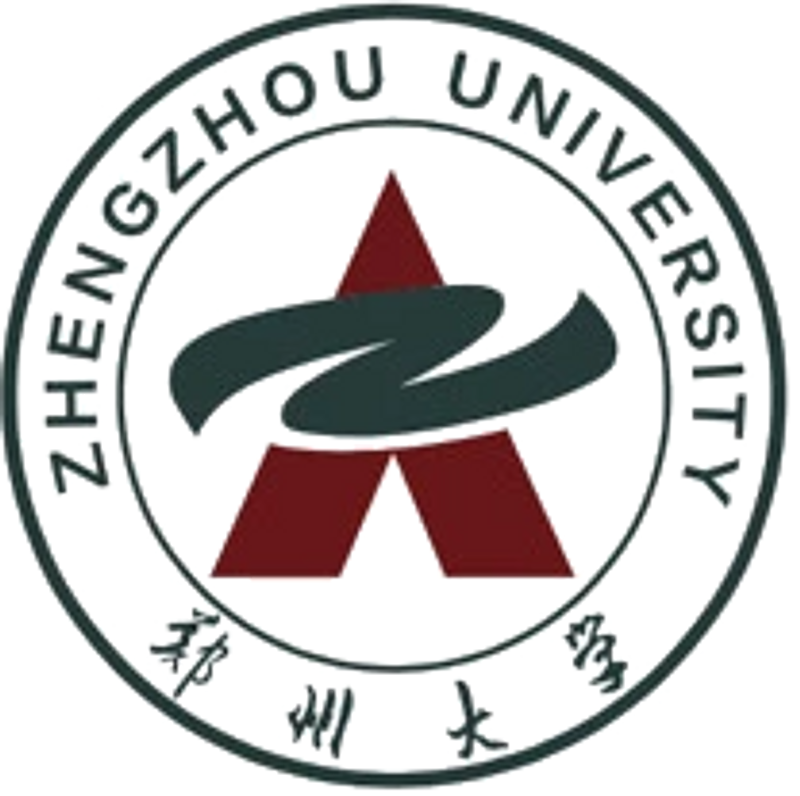
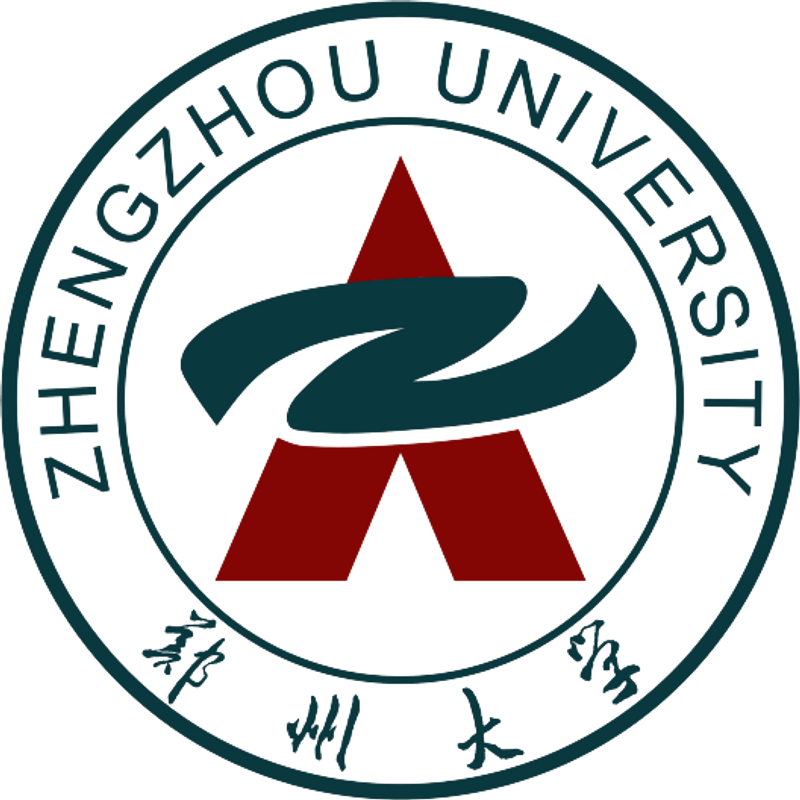
Site updated: 2022-02-27 16:54:49

diff --git a/index.html b/index.html
@@ -91,7 +91,7 @@
                 <!-- En caso de una text -->
                 
                     <a class="logo-wrap" href="#body" style="text-decoration: none;" >
-                        <img class="logo-img logo-img-main" src="img/logo-bg.jpg" alt="Asentus Logo">
+                        <img class="logo-img logo-img-main" src="img/logo-bg.png" alt="Asentus Logo">
                         <img class="logo-img logo-img-active" src="img/logo.png" alt="Asentus Logo">
                     </a>
                 
@@ -225,7 +225,7 @@
           </div>
           <div class="col-sm-8 col-sm-offset-1">
               <div class="margin-b-60">
-                I'm Shen Tongda, . <br>Duis aute irure dolor in reprehenderit in voluptate velit esse cillum dolore eu fugiat nulla pariatur. <br>Excepteur sint occaecat cupidatat non proident, sunt in culpa qui officia deserunt mollit anim id est laborum.
+                I'm Shen Tongda. <br>Duis aute irure dolor in reprehenderit in voluptate velit esse cillum dolore eu fugiat nulla pariatur. <br>Excepteur sint occaecat cupidatat non proident, sunt in culpa qui officia deserunt mollit anim id est laborum.
               </div>
           </div>
       </div>
@@ -306,7 +306,7 @@
 
 
 <!-- academic -->
-<div id="work">
+<div id="academic">
   <div class="container content-lg">
       <div class="row">
           <div class="col-sm-3 sm-margin-b-30">
@@ -326,19 +326,19 @@
 
   
     <div class="masonry-grid-item col-xs-12 col-sm-6 col-md-8 margin-b-4">
-      <!-- Work -->
+      <!-- academic -->
       <div class="work work-popup-trigger">
           <div class="work-overlay">
-              <img class="full-width img-responsive" src="img/2.jpg" alt="academic Image">
+              <img class="full-width img-responsive" src="img/1.jpg" alt="academic Image">
               <div class="work-overlay-label">
-                <p> Library</p>
+                <p> 16-52</p>
               </div>
           </div>
           <div class="work-popup-overlay">
               <div class="work-popup-content">
                   <a href="javascript:void(0);" class="work-popup-close">Hide</a>
                   <div class="margin-b-30">
-                      <h3 class="margin-b-5">Library</h3>
+                      <h3 class="margin-b-5">16-52</h3>
                       <span>Clean &amp; Minimalistic Design</span>
                   </div>
                   <div class="row">
@@ -394,7 +394,7 @@
   </div>
   
     <div class="masonry-grid-item col-xs-12 col-sm-6 col-md-4 margin-b-4">
-      <!-- Work -->
+      <!-- academic -->
       <div class="work work-popup-trigger">
           <div class="work-overlay">
               <img class="full-width img-responsive" src="img/2.jpg" alt="academic Image">
@@ -462,10 +462,10 @@
   </div>
   
     <div class="masonry-grid-item col-xs-12 col-sm-6 col-md-4 md-margin-b-4">
-      <!-- Work -->
+      <!-- academic -->
       <div class="work work-popup-trigger">
           <div class="work-overlay">
-              <img class="full-width img-responsive" src="img/3.jpg" alt="academic Image">
+              <img class="full-width img-responsive" src="img/9.jpg" alt="academic Image">
               <div class="work-overlay-label">
                 <p> Playground</p>
               </div>
@@ -530,7 +530,7 @@
   </div>
   
     <div class="masonry-grid-item col-xs-12 col-sm-6 col-md-4 md-margin-b-4">
-      <!-- Work -->
+      <!-- academic -->
       <div class="work work-popup-trigger">
           <div class="work-overlay">
               <img class="full-width img-responsive" src="img/4.jpg" alt="academic Image">
@@ -598,7 +598,7 @@
   </div>
   
     <div class="masonry-grid-item col-xs-12 col-sm-6 col-md-4">
-      <!-- Work -->
+      <!-- academic -->
       <div class="work work-popup-trigger">
           <div class="work-overlay">
               <img class="full-width img-responsive" src="img/5.jpg" alt="academic Image">
@@ -677,7 +677,7 @@
 
 
 <!-- Awards -->
-<div id="work">
+<div id="awards">
   <div class="container content-lg">
       <div class="row">
           <div class="col-sm-3 sm-margin-b-30">
@@ -1048,7 +1048,7 @@
 
 
 <!-- interests -->
-<div id="work">
+<div id="interests">
   <div class="container content-lg">
       <div class="row">
           <div class="col-sm-3 sm-margin-b-30">
@@ -1068,7 +1068,7 @@
 
   
     <div class="masonry-grid-item col-xs-12 col-sm-6 col-md-8 margin-b-4">
-      <!-- Work -->
+      <!-- interests -->
       <div class="work work-popup-trigger">
           <div class="work-overlay">
               <img class="full-width img-responsive" src="img/1.jpg" alt="interests achivements Image">
@@ -1132,11 +1132,11 @@
               </div>
           </div>
       </div>
-      <!-- End Work -->
+      <!-- End interests -->
   </div>
   
     <div class="masonry-grid-item col-xs-12 col-sm-6 col-md-4 margin-b-4">
-      <!-- Work -->
+      <!-- interests -->
       <div class="work work-popup-trigger">
           <div class="work-overlay">
               <img class="full-width img-responsive" src="img/1.jpg" alt="interests achivements Image">
@@ -1200,11 +1200,11 @@
               </div>
           </div>
       </div>
-      <!-- End Work -->
+      <!-- End interests -->
   </div>
   
     <div class="masonry-grid-item col-xs-12 col-sm-6 col-md-4 md-margin-b-4">
-      <!-- Work -->
+      <!-- interests -->
       <div class="work work-popup-trigger">
           <div class="work-overlay">
               <img class="full-width img-responsive" src="img/3.jpg" alt="interests achivements Image">
@@ -1268,11 +1268,11 @@
               </div>
           </div>
       </div>
-      <!-- End Work -->
+      <!-- End interests -->
   </div>
   
     <div class="masonry-grid-item col-xs-12 col-sm-6 col-md-4 md-margin-b-4">
-      <!-- Work -->
+      <!-- interests -->
       <div class="work work-popup-trigger">
           <div class="work-overlay">
               <img class="full-width img-responsive" src="img/4.jpg" alt="interests achivements Image">
@@ -1336,11 +1336,11 @@
               </div>
           </div>
       </div>
-      <!-- End Work -->
+      <!-- End interests -->
   </div>
   
     <div class="masonry-grid-item col-xs-12 col-sm-6 col-md-4">
-      <!-- Work -->
+      <!-- interests -->
       <div class="work work-popup-trigger">
           <div class="work-overlay">
               <img class="full-width img-responsive" src="img/5.jpg" alt="interests achivements Image">
@@ -1404,7 +1404,7 @@
               </div>
           </div>
       </div>
-      <!-- End Work -->
+      <!-- End interests -->
   </div>
   
 </div>

diff --git a/blog/2021/08/index.html b/blog/2021/08/index.html
@@ -91,7 +91,7 @@
                 <!-- En caso de una text -->
                 
                     <a class="logo-wrap" href="/#body" style="text-decoration: none;" >
-                        <img class="logo-img logo-img-main" src="img/logo-bg.jpg" alt="Asentus Logo">
+                        <img class="logo-img logo-img-main" src="img/logo-bg.png" alt="Asentus Logo">
                         <img class="logo-img logo-img-active" src="img/logo.png" alt="Asentus Logo">
                     </a>
                 
@@ -194,7 +194,7 @@
             
 <div class="post first-post">
   <h1><a href="/2021/08/11/Video-Test/"> Video Test </a></h1>
-  <p class="date"> Wed Aug 11 2021 01:02:24 GMT+0800 </p>
+  <p class="date"> Tue Aug 10 2021 13:02:24 GMT-0400 </p>
   
   
     <p>   视频测试1  

diff --git a/blog/2021/index.html b/blog/2021/index.html
@@ -91,7 +91,7 @@
                 <!-- En caso de una text -->
                 
                     <a class="logo-wrap" href="/#body" style="text-decoration: none;" >
-                        <img class="logo-img logo-img-main" src="img/logo-bg.jpg" alt="Asentus Logo">
+                        <img class="logo-img logo-img-main" src="img/logo-bg.png" alt="Asentus Logo">
                         <img class="logo-img logo-img-active" src="img/logo.png" alt="Asentus Logo">
                     </a>
                 
@@ -194,7 +194,7 @@
             
 <div class="post first-post">
   <h1><a href="/2021/08/11/Video-Test/"> Video Test </a></h1>
-  <p class="date"> Wed Aug 11 2021 01:02:24 GMT+0800 </p>
+  <p class="date"> Tue Aug 10 2021 13:02:24 GMT-0400 </p>
   
   
     <p>   视频测试1  

diff --git a/1970/01/01/EEG-Analysis/index.html b/1970/01/01/EEG-Analysis/index.html
@@ -91,7 +91,7 @@
                 <!-- En caso de una text -->
                 
                     <a class="logo-wrap" href="/#body" style="text-decoration: none;" >
-                        <img class="logo-img logo-img-main" src="img/logo-bg.jpg" alt="Asentus Logo">
+                        <img class="logo-img logo-img-main" src="img/logo-bg.png" alt="Asentus Logo">
                         <img class="logo-img logo-img-active" src="img/logo.png" alt="Asentus Logo">
                     </a>
                 

diff --git a/1970/01/01/hello-world/index.html b/1970/01/01/hello-world/index.html
@@ -91,7 +91,7 @@
                 <!-- En caso de una text -->
                 
                     <a class="logo-wrap" href="/#body" style="text-decoration: none;" >
-                        <img class="logo-img logo-img-main" src="img/logo-bg.jpg" alt="Asentus Logo">
+                        <img class="logo-img logo-img-main" src="img/logo-bg.png" alt="Asentus Logo">
                         <img class="logo-img logo-img-active" src="img/logo.png" alt="Asentus Logo">
                     </a>
                 

diff --git a/2021/08/11/OpenSceneGraph/index.html b/2021/08/11/OpenSceneGraph/index.html
@@ -91,7 +91,7 @@
                 <!-- En caso de una text -->
                 
                     <a class="logo-wrap" href="/#body" style="text-decoration: none;" >
-                        <img class="logo-img logo-img-main" src="img/logo-bg.jpg" alt="Asentus Logo">
+                        <img class="logo-img logo-img-main" src="img/logo-bg.png" alt="Asentus Logo">
                         <img class="logo-img logo-img-active" src="img/logo.png" alt="Asentus Logo">
                     </a>
                 

diff --git a/2021/08/11/Video-Test/index.html b/2021/08/11/Video-Test/index.html
@@ -91,7 +91,7 @@
                 <!-- En caso de una text -->
                 
                     <a class="logo-wrap" href="/#body" style="text-decoration: none;" >
-                        <img class="logo-img logo-img-main" src="img/logo-bg.jpg" alt="Asentus Logo">
+                        <img class="logo-img logo-img-main" src="img/logo-bg.png" alt="Asentus Logo">
                         <img class="logo-img logo-img-active" src="img/logo.png" alt="Asentus Logo">
                     </a>
                 

diff --git a/blog/1970/01/index.html b/blog/1970/01/index.html
@@ -91,7 +91,7 @@
                 <!-- En caso de una text -->
                 
                     <a class="logo-wrap" href="/#body" style="text-decoration: none;" >
-                        <img class="logo-img logo-img-main" src="img/logo-bg.jpg" alt="Asentus Logo">
+                        <img class="logo-img logo-img-main" src="img/logo-bg.png" alt="Asentus Logo">
                         <img class="logo-img logo-img-active" src="img/logo.png" alt="Asentus Logo">
                     </a>
                 

diff --git a/blog/1970/index.html b/blog/1970/index.html
@@ -91,7 +91,7 @@
                 <!-- En caso de una text -->
                 
                     <a class="logo-wrap" href="/#body" style="text-decoration: none;" >
-                        <img class="logo-img logo-img-main" src="img/logo-bg.jpg" alt="Asentus Logo">
+                        <img class="logo-img logo-img-main" src="img/logo-bg.png" alt="Asentus Logo">
                         <img class="logo-img logo-img-active" src="img/logo.png" alt="Asentus Logo">
                     </a>
                 

diff --git a/blog/index.html b/blog/index.html
@@ -91,7 +91,7 @@
                 <!-- En caso de una text -->
                 
                     <a class="logo-wrap" href="/#body" style="text-decoration: none;" >
-                        <img class="logo-img logo-img-main" src="img/logo-bg.jpg" alt="Asentus Logo">
+                        <img class="logo-img logo-img-main" src="img/logo-bg.png" alt="Asentus Logo">
                         <img class="logo-img logo-img-active" src="img/logo.png" alt="Asentus Logo">
                     </a>
                 

diff --git a/tags/Computer-Graphics/index.html b/tags/Computer-Graphics/index.html
@@ -91,7 +91,7 @@
                 <!-- En caso de una text -->
                 
                     <a class="logo-wrap" href="/#body" style="text-decoration: none;" >
-                        <img class="logo-img logo-img-main" src="img/logo-bg.jpg" alt="Asentus Logo">
+                        <img class="logo-img logo-img-main" src="img/logo-bg.png" alt="Asentus Logo">
                         <img class="logo-img logo-img-active" src="img/logo.png" alt="Asentus Logo">
                     </a>
                 

diff --git a/tags/Video/index.html b/tags/Video/index.html
@@ -91,7 +91,7 @@
                 <!-- En caso de una text -->
                 
                     <a class="logo-wrap" href="/#body" style="text-decoration: none;" >
-                        <img class="logo-img logo-img-main" src="img/logo-bg.jpg" alt="Asentus Logo">
+                        <img class="logo-img logo-img-main" src="img/logo-bg.png" alt="Asentus Logo">
                         <img class="logo-img logo-img-active" src="img/logo.png" alt="Asentus Logo">
                     </a>
                 
